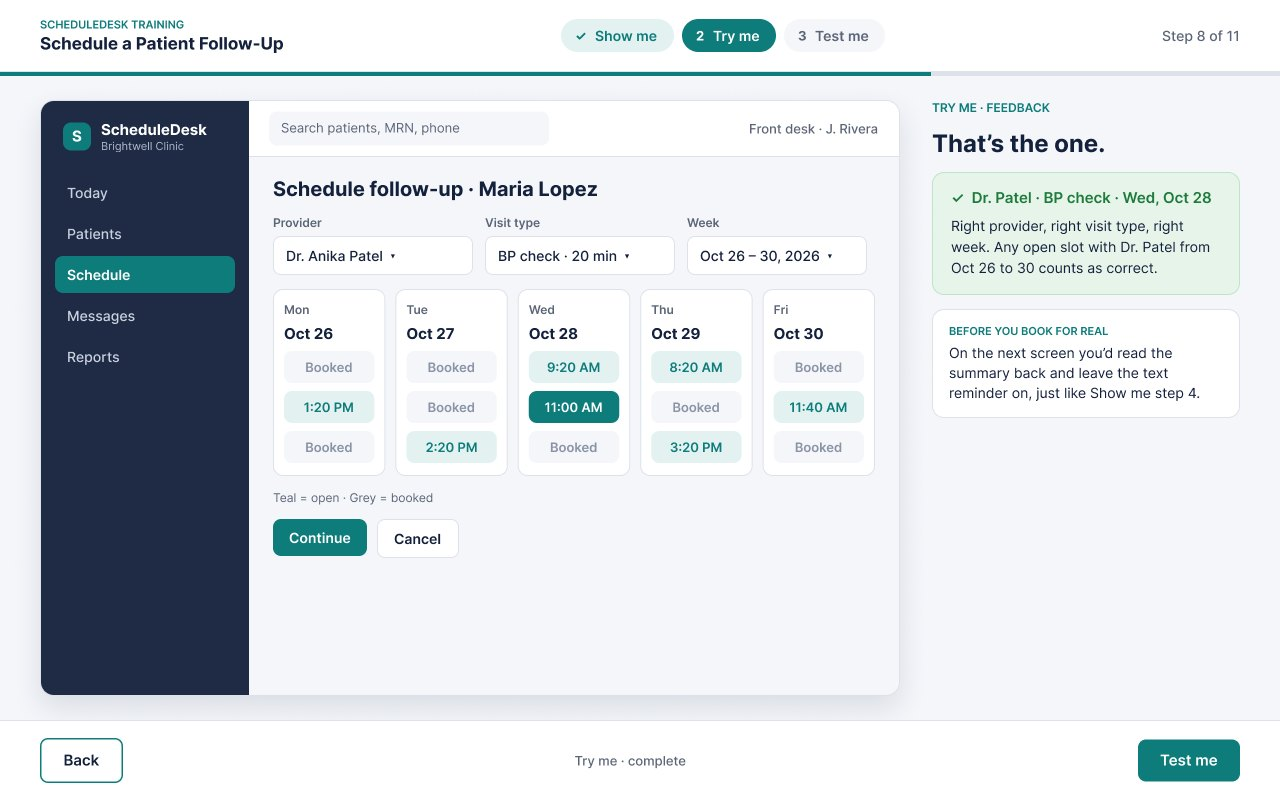
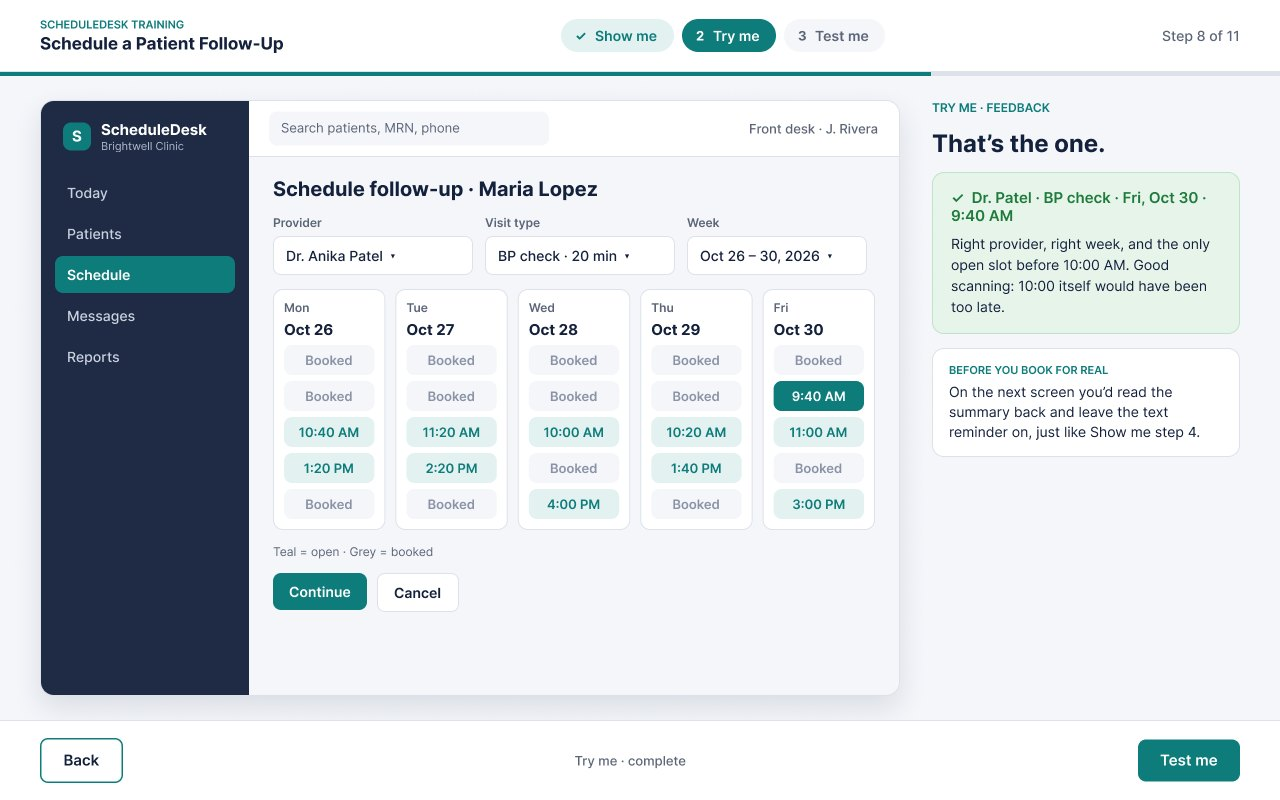
Case study: search-first Try me and mornings-only scheduling
Claude-Session: https://claude.ai/code/session_01CNrz7D3udvuQGpck7TNdFH

diff --git a/software-training.html b/software-training.html
@@ -40,7 +40,7 @@
 <section class="cs-intro"><div class="wrap reveal">
   <h1>Schedule a Patient Follow-Up</h1>
   <p class="sub">A software-training module for new front-desk staff</p>
-  <p>A short, practice-first module that teaches new front-desk staff to book a follow-up visit in a clinic scheduling system. Learners watch the task once with callouts, book it themselves in a practice screen with a built-in trap, then answer two workplace questions. A one-page job aid closes the module.</p>
+  <p>A short, practice-first module that teaches new front-desk staff to book a follow-up visit in a clinic scheduling system. Learners watch the task once with callouts, then do it themselves from a blank patient search, working around a pre-filled wrong provider and a patient who can only come in mornings. Two workplace questions and a one-page job aid close it out.</p>
   <div class="meta cols"><div><h3>Audience</h3><p>New front-desk and scheduling staff at an outpatient clinic, and the supervisors who onboard them.</p></div><div><h3>Responsibilities</h3><p>Instructional Design, Learning Objectives, Scenario Writing, Show me / Try me / Test me Structure, Feedback Design, UI Mockups, Figma Component Library, Branching Prototype, Job Aid</p></div><div><h3>Tools Used</h3><p>Figma, Claude</p></div></div>
   <p class="cs-note">Brightwell Clinic, the ScheduleDesk app, and every patient and provider in this module are fictional. It's a portfolio concept built to show how I design software training.</p>
   <a class="pill" href="https://www.figma.com/proto/Sbr79IbDZx9iKQXk1YxOAg/Software-Training?node-id=2-2&starting-point-node-id=2%3A2&scaling=scale-down" target="_blank" rel="noopener">Try the prototype <span class="arrow" aria-hidden="true">→</span></a>
@@ -58,7 +58,7 @@
   <p class="eyebrow">Learning objectives</p>
   <h2 class="h-md">What learners will be able to do</h2>
   <p class="lead">Given a provider&#x27;s follow-up note, a new front-desk staff member will:</p>
-  <ol class="objectives"><li><span class="obj-n">01</span><div><p class="obj-b">Find the right patient using two identifiers: name and date of birth.</p><p class="obj-c">Measured by: Test me question 1, plus the record they open in Show me step 1.</p></div></li><li><span class="obj-n">02</span><div><p class="obj-b">Book the follow-up with the right provider, visit type and date window from the provider&#x27;s note.</p><p class="obj-c">Mastery: an open slot with Dr. Patel the week of Oct 26 in Try me, with no more than one hint.</p></div></li><li><span class="obj-n">03</span><div><p class="obj-b">Read back the five booking details and send a reminder before finishing.</p><p class="obj-c">Practiced in Show me step 4 and kept on the job aid.</p></div></li></ol>
+  <ol class="objectives"><li><span class="obj-n">01</span><div><p class="obj-b">Find the right patient using two identifiers: name and date of birth.</p><p class="obj-c">Measured by: Test me question 1, plus the record they open in Show me step 1.</p></div></li><li><span class="obj-n">02</span><div><p class="obj-b">Book the follow-up with the right provider and date window from the provider&#x27;s note, at a time the patient can make.</p><p class="obj-c">Mastery: in Try me, find Maria, switch to Dr. Patel, and book the only open slot before 10:00 AM that week.</p></div></li><li><span class="obj-n">03</span><div><p class="obj-b">Read back the five booking details and send a reminder before finishing.</p><p class="obj-c">Practiced in Show me step 4 and kept on the job aid.</p></div></li></ol>
   <p class="obj-note">Each objective maps to a screen in the module and a step on the job aid.</p>
 </div></section>
 <section id="flow"><div class="wrap">
@@ -74,12 +74,14 @@
 
 <section><div class="wrap">
   <div class="reveal">
-    <h2 class="h-md">Try me, with a built-in trap</h2>
-    <p>The practice screen opens with Dr. Michael Chen already in the Provider field, because that's what the scheduler would carry over from the last booking. Learners can open the Provider dropdown and switch to Dr. Patel, or pick a slot without checking and get specific feedback with two ways forward: try again, or watch Show me again. A hint unlocks after one miss. Learners who change the provider first get confirmation that any open slot with Dr. Patel that week counts.</p>
+    <h2 class="h-md">Try me, the way the real job works</h2>
+    <p>Try me starts on an empty Patients screen, and scheduling stays locked until the learner finds the patient. They type the last name, add the date of birth and search. A name-only search returns three look-alike records, and opening the wrong one brings up a reminder to check the date of birth.</p>
+    <p>Then come two realistic constraints. The scheduler opens with Dr. Michael Chen already in the Provider field, carried over from the last booking, so learners have to open the dropdown and switch to Dr. Patel. And Maria can only come in before 10:00 AM. Dr. Patel's week is mostly booked, so learners have to scan every day to find the one open morning slot, Friday at 9:40. A 10:00 slot is there as a near miss. Every wrong choice gets specific feedback and a way forward.</p>
   </div>
-  <div class="pair">
+  <div class="trio-figs">
+    <figure class="reveal"><img src="assets/img/sw-tryme-search.jpg" alt="Try me patient search showing three similar Lopez records after a name-only search" loading="lazy"><figcaption>Find the patient first</figcaption></figure>
     <figure class="reveal"><img src="assets/img/sw-tryme-wrong.jpg" alt="Try me feedback when the learner books with the wrong provider" loading="lazy"><figcaption>Wrong provider: specific, corrective feedback</figcaption></figure>
-    <figure class="reveal"><img src="assets/img/sw-tryme-right.jpg" alt="Try me feedback when the learner books with the right provider" loading="lazy"><figcaption>Right provider: confirm and move on</figcaption></figure>
+    <figure class="reveal"><img src="assets/img/sw-tryme-right.jpg" alt="Try me success with Friday 9:40 AM selected, the only open morning slot" loading="lazy"><figcaption>The only open slot before 10:00 AM</figcaption></figure>
   </div>
 </div></section>
 
@@ -96,7 +98,7 @@
 
 <section><div class="wrap reveal">
   <h2 class="h-md">Full Development</h2>
-  <p>I built the module in Figma, starting with a small component library: a module header that tracks Show me, Try me and Test me, numbered callouts, an amber focus ring, buttons, answer options with correct and incorrect states, and the app's sidebar and top bar. Every screen is assembled from those pieces, so one change updates the whole module. Everything the tutorial points at works: learners can select the ringed patient row, the Schedule follow-up button, a time slot or Book appointment, or use Next step. The Provider, Visit type and Week fields open real dropdown menus, and picking the wrong option or a booked time brings up a short pop-up that explains why. Buttons and answers respond on hover. In all, there are 25 screens, 9 feedback pop-ups and more than 200 interactions.</p>
+  <p>I built the module in Figma, starting with a small component library: a module header that tracks Show me, Try me and Test me, numbered callouts, an amber focus ring, buttons, answer options with correct and incorrect states, and the app's sidebar and top bar. Every screen is assembled from those pieces, so one change updates the whole module. Everything the tutorial points at works: learners can select the ringed patient row, the Schedule follow-up button, a time slot or Book appointment, or use Next step. In Try me, the patient search, the app's sidebar and the Provider, Visit type and Week dropdowns all respond, and a wrong patient, a booked time or a slot after 10:00 AM brings up a short pop-up that explains why. Buttons and answers respond on hover. In all, there are 31 screens, 12 feedback pop-ups and more than 300 interactions.</p>
   <p style="margin-top:28px"><a class="pill" href="https://www.figma.com/proto/Sbr79IbDZx9iKQXk1YxOAg/Software-Training?node-id=2-2&starting-point-node-id=2%3A2&scaling=scale-down" target="_blank" rel="noopener">Try the prototype <span class="arrow" aria-hidden="true">→</span></a></p>
 </div></section>
 <section id="accessibility"><div class="wrap reveal">

diff --git a/assets/css/site.css b/assets/css/site.css
@@ -367,3 +367,8 @@ a.step-card:hover { border-color: var(--copper); transform: translateY(-2px); }
 .cs-note { font-size: 15px; color: var(--soft); font-style: italic; border-left: 3px solid var(--copper); padding-left: 14px; }
 @media (max-width: 1080px) { .tiles.c4 { grid-template-columns: repeat(2, 1fr); } .fit { grid-template-columns: 1fr; } }
 @media (max-width: 860px) { .tiles.c4 { grid-template-columns: 1fr; } }
+.trio-figs { display: grid; grid-template-columns: repeat(3, 1fr); gap: 20px; margin-top: 28px; }
+.trio-figs figure { margin: 0; }
+.trio-figs img { border-radius: 16px; }
+.trio-figs figcaption { margin-top: 10px; color: var(--copper); font-size: 15px; font-weight: 500; }
+@media (max-width: 860px) { .trio-figs { grid-template-columns: 1fr; } }

diff --git a/build.py b/build.py
@@ -676,7 +676,7 @@ def fig(src, alt, cap):
 sw += f"""<section class="cs-intro"><div class="wrap reveal">
   <h1>Schedule a Patient Follow-Up</h1>
   <p class="sub">A software-training module for new front-desk staff</p>
-  <p>A short, practice-first module that teaches new front-desk staff to book a follow-up visit in a clinic scheduling system. Learners watch the task once with callouts, book it themselves in a practice screen with a built-in trap, then answer two workplace questions. A one-page job aid closes the module.</p>
+  <p>A short, practice-first module that teaches new front-desk staff to book a follow-up visit in a clinic scheduling system. Learners watch the task once with callouts, then do it themselves from a blank patient search, working around a pre-filled wrong provider and a patient who can only come in mornings. Two workplace questions and a one-page job aid close it out.</p>
   {meta_blocks([("Audience", "New front-desk and scheduling staff at an outpatient clinic, and the supervisors who onboard them."),
                 ("Responsibilities", "Instructional Design, Learning Objectives, Scenario Writing, Show me / Try me / Test me Structure, Feedback Design, UI Mockups, Figma Component Library, Branching Prototype, Job Aid"),
                 ("Tools Used", "Figma, Claude")], cols=True)}
@@ -699,8 +699,8 @@ sw += objectives(
     "Given a provider's follow-up note, a new front-desk staff member will:",
     [("Find the right patient using two identifiers: name and date of birth.",
       "Measured by: Test me question 1, plus the record they open in Show me step 1."),
-     ("Book the follow-up with the right provider, visit type and date window from the provider's note.",
-      "Mastery: an open slot with Dr. Patel the week of Oct 26 in Try me, with no more than one hint."),
+     ("Book the follow-up with the right provider and date window from the provider's note, at a time the patient can make.",
+      "Mastery: in Try me, find Maria, switch to Dr. Patel, and book the only open slot before 10:00 AM that week."),
      ("Read back the five booking details and send a reminder before finishing.",
       "Practiced in Show me step 4 and kept on the job aid.")],
     "Each objective maps to a screen in the module and a step on the job aid.")
@@ -717,12 +717,14 @@ sw += f"""<section id="flow"><div class="wrap">
 
 <section><div class="wrap">
   <div class="reveal">
-    <h2 class="h-md">Try me, with a built-in trap</h2>
-    <p>The practice screen opens with Dr. Michael Chen already in the Provider field, because that's what the scheduler would carry over from the last booking. Learners can open the Provider dropdown and switch to Dr. Patel, or pick a slot without checking and get specific feedback with two ways forward: try again, or watch Show me again. A hint unlocks after one miss. Learners who change the provider first get confirmation that any open slot with Dr. Patel that week counts.</p>
+    <h2 class="h-md">Try me, the way the real job works</h2>
+    <p>Try me starts on an empty Patients screen, and scheduling stays locked until the learner finds the patient. They type the last name, add the date of birth and search. A name-only search returns three look-alike records, and opening the wrong one brings up a reminder to check the date of birth.</p>
+    <p>Then come two realistic constraints. The scheduler opens with Dr. Michael Chen already in the Provider field, carried over from the last booking, so learners have to open the dropdown and switch to Dr. Patel. And Maria can only come in before 10:00 AM. Dr. Patel's week is mostly booked, so learners have to scan every day to find the one open morning slot, Friday at 9:40. A 10:00 slot is there as a near miss. Every wrong choice gets specific feedback and a way forward.</p>
   </div>
-  <div class="pair">
+  <div class="trio-figs">
+    {fig("assets/img/sw-tryme-search.jpg", "Try me patient search showing three similar Lopez records after a name-only search", "Find the patient first")}
     {fig("assets/img/sw-tryme-wrong.jpg", "Try me feedback when the learner books with the wrong provider", "Wrong provider: specific, corrective feedback")}
-    {fig("assets/img/sw-tryme-right.jpg", "Try me feedback when the learner books with the right provider", "Right provider: confirm and move on")}
+    {fig("assets/img/sw-tryme-right.jpg", "Try me success with Friday 9:40 AM selected, the only open morning slot", "The only open slot before 10:00 AM")}
   </div>
 </div></section>
 
@@ -739,7 +741,7 @@ sw += f"""<section id="flow"><div class="wrap">
 
 <section><div class="wrap reveal">
   <h2 class="h-md">Full Development</h2>
-  <p>I built the module in Figma, starting with a small component library: a module header that tracks Show me, Try me and Test me, numbered callouts, an amber focus ring, buttons, answer options with correct and incorrect states, and the app's sidebar and top bar. Every screen is assembled from those pieces, so one change updates the whole module. Everything the tutorial points at works: learners can select the ringed patient row, the Schedule follow-up button, a time slot or Book appointment, or use Next step. The Provider, Visit type and Week fields open real dropdown menus, and picking the wrong option or a booked time brings up a short pop-up that explains why. Buttons and answers respond on hover. In all, there are 25 screens, 9 feedback pop-ups and more than 200 interactions.</p>
+  <p>I built the module in Figma, starting with a small component library: a module header that tracks Show me, Try me and Test me, numbered callouts, an amber focus ring, buttons, answer options with correct and incorrect states, and the app's sidebar and top bar. Every screen is assembled from those pieces, so one change updates the whole module. Everything the tutorial points at works: learners can select the ringed patient row, the Schedule follow-up button, a time slot or Book appointment, or use Next step. In Try me, the patient search, the app's sidebar and the Provider, Visit type and Week dropdowns all respond, and a wrong patient, a booked time or a slot after 10:00 AM brings up a short pop-up that explains why. Buttons and answers respond on hover. In all, there are 31 screens, 12 feedback pop-ups and more than 300 interactions.</p>
   <p style="margin-top:28px">{pill(S, "Try the prototype", external=True)}</p>
 </div></section>
 """
